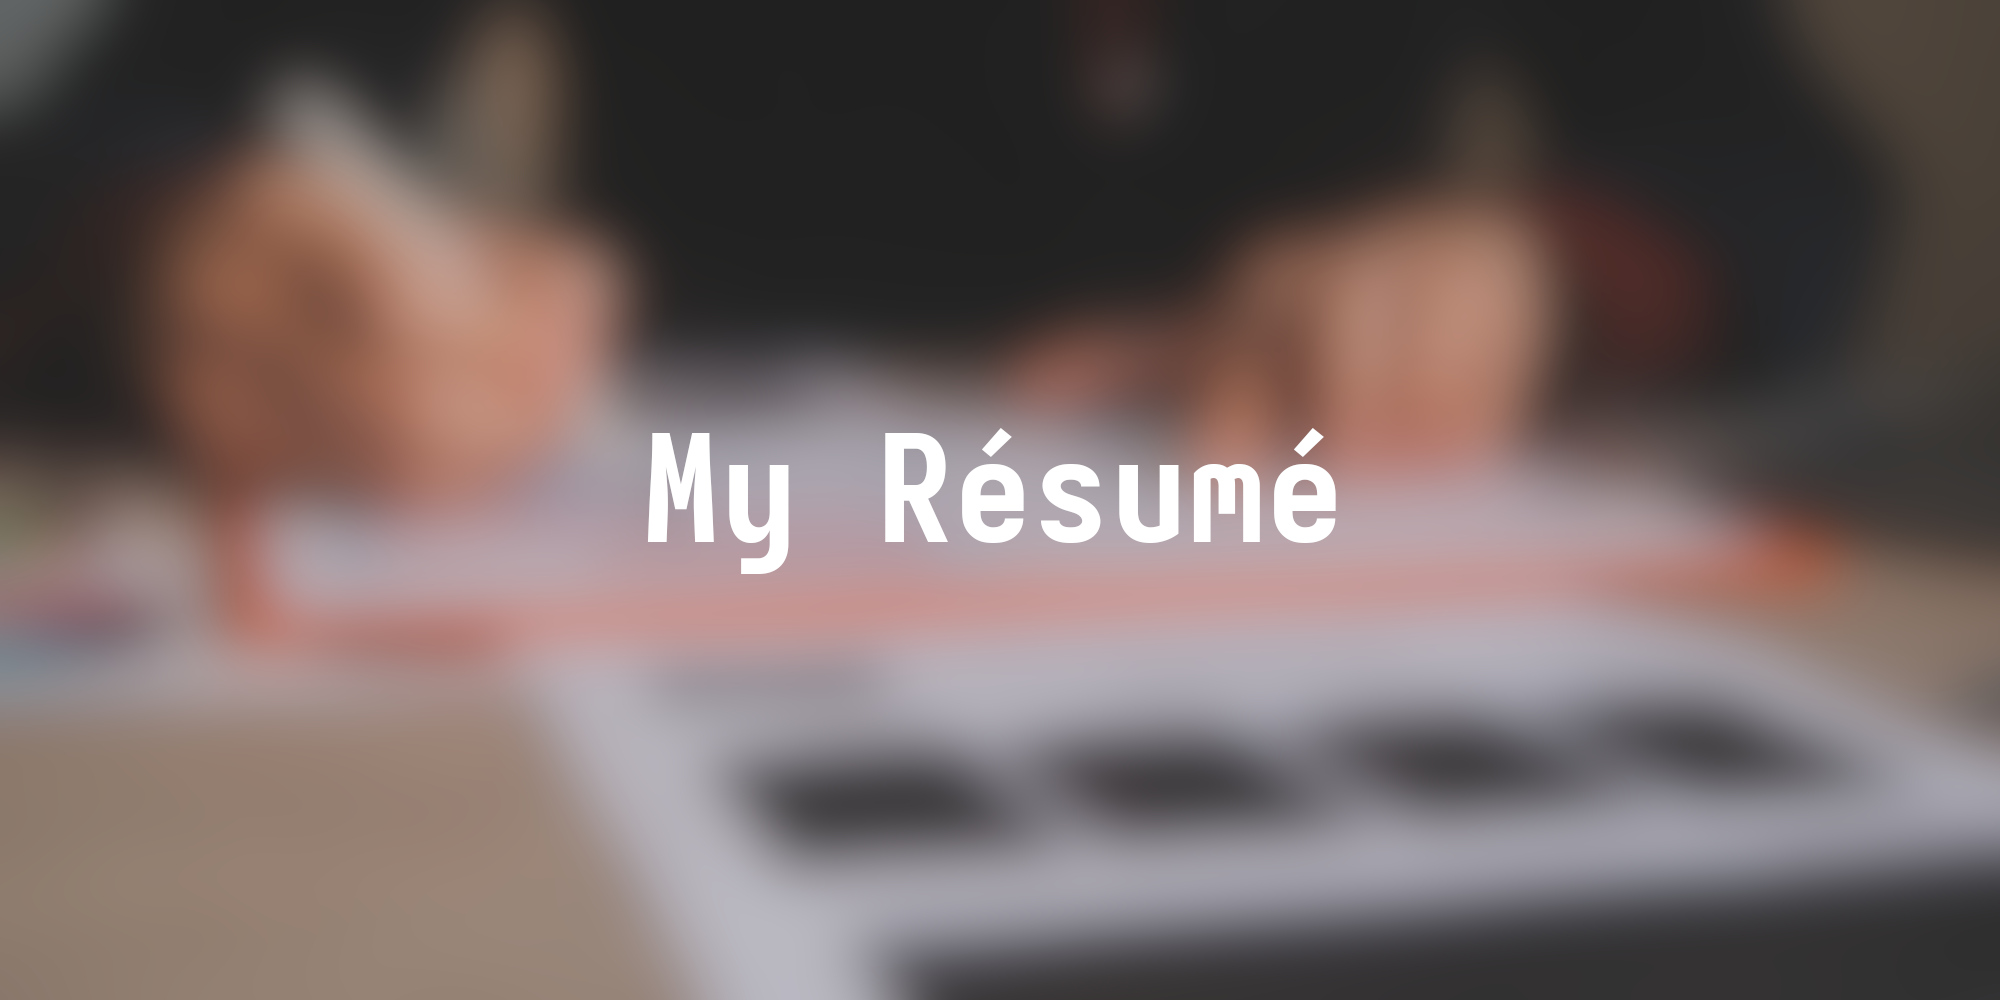
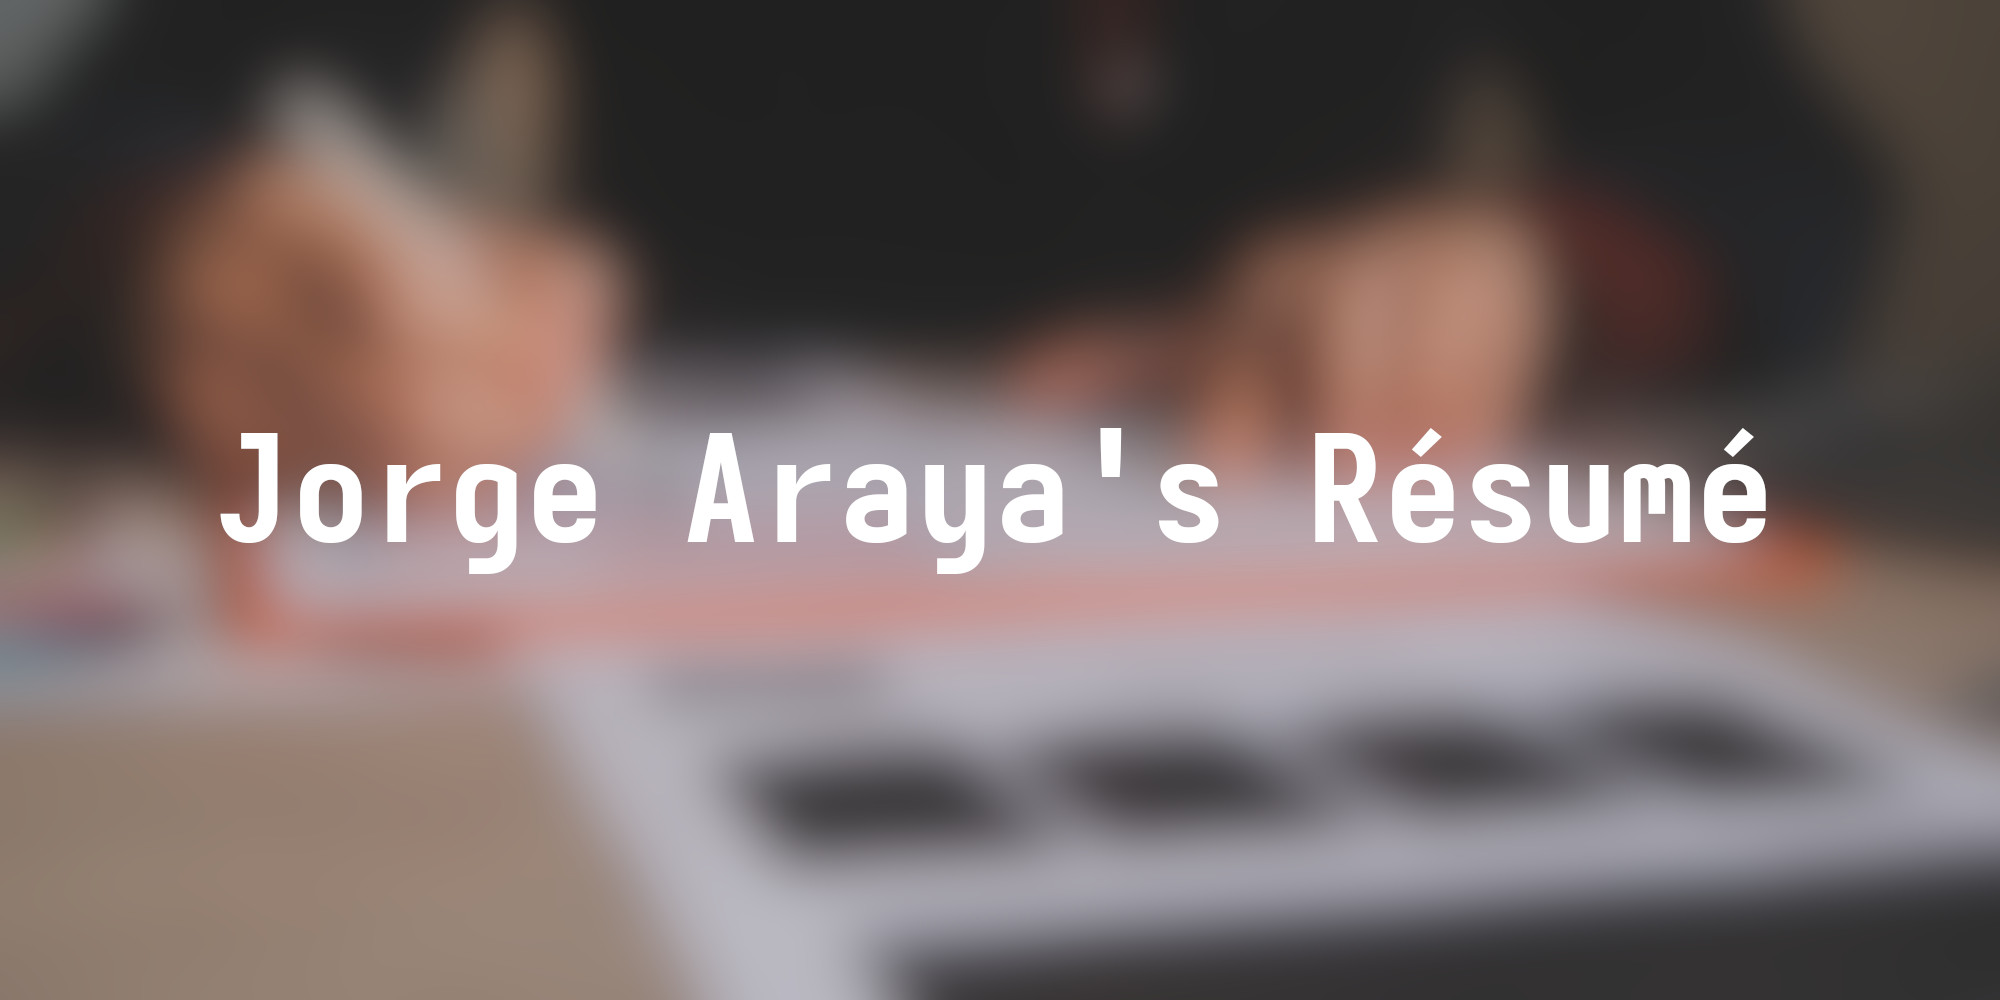
hugo: Activate Spanish translation and add some content

Changed region(s): [[0.093, 0.434, 0.899, 0.589]]

diff --git a/content/resume.es.md b/content/resume.es.md
@@ -1,0 +1,73 @@
+---
+title: Mi Curriculum Vitae
+draft: false
+date: 2019-05-24T01:23:45-06:00
+images: ["images/resume/cover.es.jpg"]
+---
+
+## RESUMEN
+
+Ayudo a empresas a construir sistemas backend confiables usando Go y Python.
+Con más de 10 años de experiencia, he contribuido a equipos en Crunchyroll, TradeStation, entre otros.
+Me apasiona el software libre, la automatización y las integraciones de APIs.
+Ya sea construyendo desde cero o escalando, puedo ayudar a entregar código limpio y mantenible.
+
+## EXPERIENCIA LABORAL
+
+### ConductorOne (*Jun 2024 – May 2025*)
+
+- Puesto: Golang Software Engineer
+- Lo que hice:
+  - Trabajé en el Baton SDK, mejorando la forma en que se configuran los conectores
+  - Inicié y extendí varios conectores para servicios como Greenhouse, Workday, Openshift, SharePoint, LDAP
+
+### Net2Phone (*Ene 2024 – Jun 2024*)
+
+- Puesto: Golang Software Engineer
+- Lo que hice:
+  - Ayudé a integrar IA como producto dentro de la oferta de la empresa
+
+### Crunchyroll (*Nov 2022 – Jun 2023*)
+
+- Puesto: Senior Golang Developer
+- Lo que hice:
+  - Mantuve microservicios del sistema de gestión de contenido, facilitando la catalogación y distribución de video
+  - Asistí a otros equipos con una herramienta interna para curadores de contenido
+  - Participé activamente en revisiones de código, ofreciendo orientación y resolviendo dudas técnicas
+
+### TradeStation (*Mar 2020 – Ago 2022*)
+
+- Puesto: Software Engineer II; desarrollo fullstack con Go, MySQL, GraphQL (backend), ReactJS y Tailwind CSS
+- Lo que hice:
+  - Contribuí al proyecto “YouCanTrade”, una plataforma de aprendizaje en línea
+  - Colaboré con el equipo de DevOps en tareas relacionadas con la nube
+
+### Kepler (*May 2019 – Feb 2020*)
+
+- Puesto: Backend/Fullstack Developer
+- Lo que hice:
+  - Extendí y corregí errores en la herramienta interna a medida llamada Playbook
+
+## PROYECTOS
+
+Ver mi [portafolio](/es/portfolio)
+
+## HABILIDADES TÉCNICAS
+
+#### Principales
+
+- Go (★★★★★)
+- Python (★★★★☆)
+- Typescript (★★★☆☆)
+
+#### Secundarias
+
+- GraphQL
+- Docker
+- Kubernetes
+- Git
+- ReactJS
+- SvelteJS
+- SQLAlchemy
+- PyQt
+- Flask

diff --git a/content/blog/hello-world.es.md b/content/blog/hello-world.es.md
@@ -1,0 +1,25 @@
+---
+disableCall2Action: true
+draft: false
+date: 2025-05-24T00:23:32-06:00
+title: "Entonces, he iniciado un sitio web"
+cascade:
+- url: /:section/:year-:yearday/:slug
+description: "Faltan cosas pero el contenido viene pronto"
+slug: "hello-world"
+authors: ["Jorge"]
+tags: []
+categories: [misc]
+externalLink: ""
+series: []
+featuredImage: ""
+images: ["/images/blog/default.jpg"]
+---
+
+¡Bienvenido!
+
+Comencé este sitio web desde la necesidad de tener una presencia en-linea, un lugar que llamar *casa*. Como habrá notado, este sitio web funciona como una bitácora (técnica) y como portafolio de proyectos, ¡El sitio también contiene mi currículum vítae! Este sitio web es mi *casa* pero también una forma de encontrar clientes para los cuales trabajar.
+
+Si obtiene un 404 mientras visita cualquiera de los enlaces de este sitio web, por favor perdóneme porque que aun esta en construcción; el contenido vendrá pronto ¡Lo prometo! 🙈
+
+¡Hasta la próxima!
